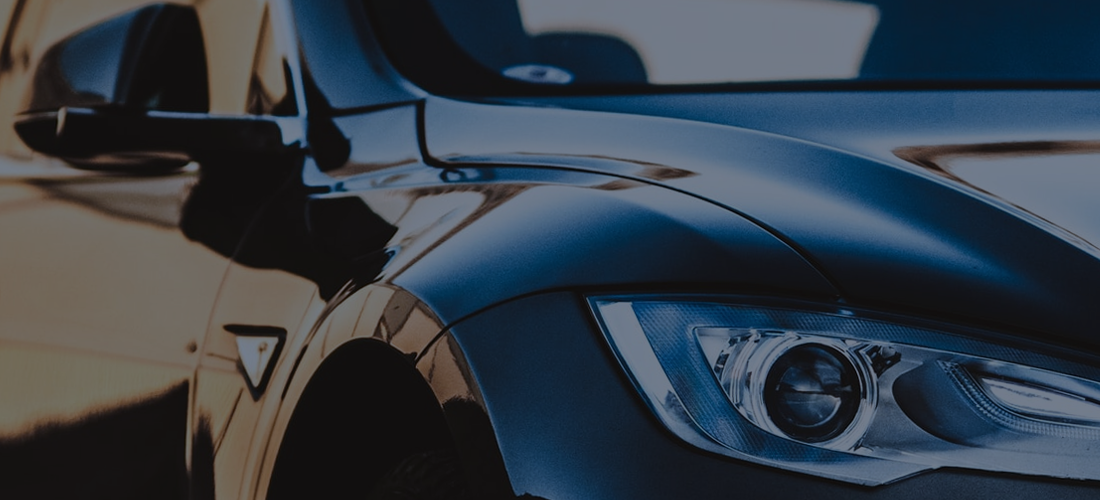
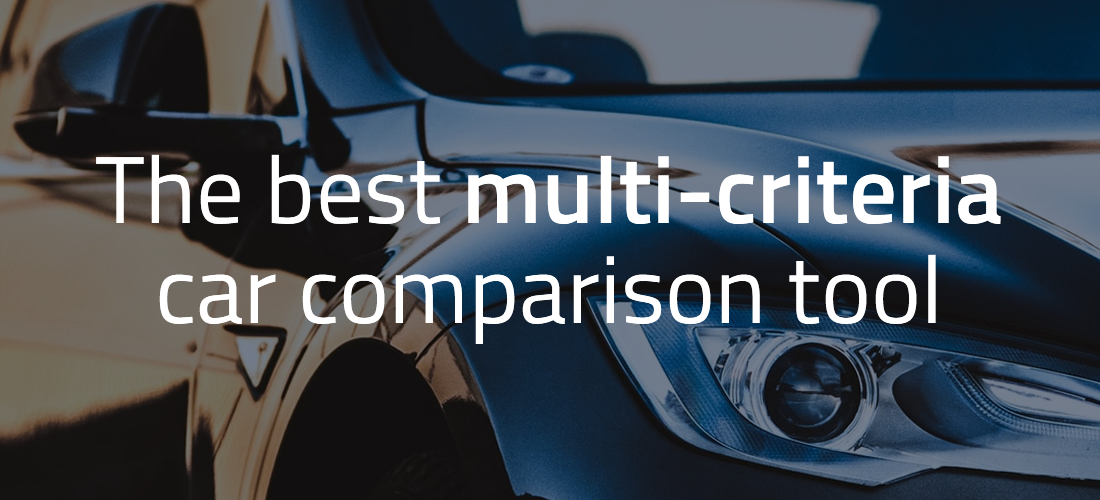
new pictures and design things
new pictures and design things

diff --git a/autofy_styles.css b/autofy_styles.css
@@ -387,29 +387,52 @@ p{
 
 /* C O M P A R E*/
 
+.carboxesCompare{
+  display: inline-block;
+  width: 100%;
+  border:none;
+  padding-top: 30px;
+    margin-right: 0px;
+    margin-left: auto;
+}
+.carboxCompare{
+  width:505px;
+  height:400px;
+  display: inline-block;
+  background-color:rgb(206, 213, 222);
+  border-radius: 25px;
+  
+  margin-left:30px;
+  justify-self: right;
+  margin-bottom:50px;
+}
 
 .choose{
-  background-color:"#8a8a8a";
-  border: none;
+  background-color:#1a2028;
   border-radius: 25px;
   color: white;
   width: 130px;
   height: 30px;
   margin-top: 10px;
+  margin-right: 0px;
   outline: none;
 }
 .CompareButton{
   background-color:#0071bc;
   border: none;
-  border-radius: 25px;
+  border-radius: 20px;
   color: white;
-  width: 130px;
-  height: 30px;
+  width: 150px;
+  height: 40px;
   margin-top: 10px;
   outline: none;
-  margin-left:43%;
+  margin-left:44%;
   margin-bottom:20px;
+  font-size: 16px;
 }
+
+
+
 
 /* C O M P A R E  R E S U L T */
 .carboxesResult{
@@ -491,20 +514,19 @@ p{
 }
 .carboxesHistory{
   display: inline-block;
-  width: 70%;
+  width: 100%;
   border:none;
   padding-top: 30px;
-    margin-right: 0px;
-    margin-left: auto;
 }
 .carboxHistory{
-  width:900px;
+  width:1040px;
   height:400px;
   display: inline-block;
   background-color:rgb(206, 213, 222);
   border-radius: 25px;
   justify-self: right;
-  margin-left: 11%;
+  margin-left: 30px;
+
 }
 .carboxesHistoryInside{
   height: 400px;

diff --git a/autofyFunctions.js b/autofyFunctions.js
@@ -55,7 +55,7 @@ document.getElementById('choose1').style.backgroundColor = "#8a8a8a";
 function chooseButton1(_this) {
   if(document.getElementById('choose2').style.backgroundColor = "#0071bc"){
   _this.style.backgroundColor = "#0071bc";
-  document.getElementById('choose2').style.backgroundColor = "#8a8a8a";
+  document.getElementById('choose2').style.backgroundColor = "#1a2028";
   }else{
     _this.style.backgroundColor = "#0071bc";
   }
@@ -63,7 +63,7 @@ function chooseButton1(_this) {
 function chooseButton2(_this) {
   if(document.getElementById('choose1').style.backgroundColor = "#0071bc"){
   _this.style.backgroundColor = "#0071bc";
-  document.getElementById('choose1').style.backgroundColor = "#8a8a8a";
+  document.getElementById('choose1').style.backgroundColor = "#1a2028";
   }else{
     _this.style.backgroundColor = "#0071bc";
   }

diff --git a/autofy.html b/autofy.html
@@ -32,9 +32,7 @@
             <div class="content">
                 <div class="heroContainer">
                     <img src="images/hero.png" class="heroHome" />
-                    <div class="centered">
-                        The best <strong>multi-criteria</strong><br /> car comparison tool
-                    </div>
+                    
                 </div>
                 <div class="whatIs">
                       <div class="whatIsText">

diff --git a/compare.php b/compare.php
@@ -44,71 +44,17 @@
         <div class="container" id="container">
                 <div class="content" id="Colorbg">
                     <div class="hero">
-                        <img src="images/hero2.png" class="heroFind"/>
-                    <div class="centeredFind">Our <strong>comparison tool</strong> will help to<br /> choose car that suits you best</div>
-                    </div>
-                    <div class="filter" id="Colorbg2">
-                            <p>Brand</p>
-                            <select class="selectBox">
-                                    <option disabled selected value="">Choose your option</option>
-                                    <option value="Audi">Audi</option>
-                                    <option value="Volkswagen">Volkswagen</option>
-                                    <option value="Opel">Opel</option>
-                                    <option value="BMW">BMW</option>
-                            </select>
-                            <p>Year</p>
-                            <select class="selectBox">
-                                    <option disabled selected value="">Choose your option</option>
-                                    <option value="2019">2019</option>
-                                    <option value="2018">2018</option>
-                            </select>
-                            <p>Body Style</p>
-                            <select class="selectBox">
-                                    <option disabled selected value="">Choose your option</option>
-                                    <option value="Cabriolet">Cabriolet</option>
-                                    <option value="Coupe">Coupe</option>
-                                    <option value="EstateCar">Estate Car</option>
-                                    <option value="SUV">SUV</option>
-                                    <option value="Saloon">Saloon</option>
-                                    <option value="Van">Van</option>
-                                    <option value="SmallCar">Small Car</option>
-                            </select>
-                            <p>Fuel Type</p>
-                            <select class="selectBox">
-                                    <option disabled selected value="">Choose your option</option>
-                                    <option value="Petrol">Petrol</option>
-                                    <option value="Diesel">Diesel</option>
-                                    <option value="LPG">LPG</option>
-                                    <option value="Hybrid">Hybrid</option>
-                                    <option value="Electric">Electric</option>
-                            </select>
-                            <p>Transmission</p>
-                            <select class="selectBox">
-                                    <option disabled selected value="">Choose your option</option>
-                                    <option value="Manual">Manual gearbox</option>
-                                    <option value="Automatic">Automatic transmission</option>
-                            </select>
-                            <p>Color</p>
-                            <select class="selectBox">
-                                    <option disabled selected value="">Choose your option</option>
-                                    <option value="Red">Red</option>
-                                    <option value="Yellow">Yellow</option>
-                                    <option value="Blue">Blue</option>
-                                    <option value="Black">Black</option>
-                            </select>
-                            <button  type="button" class="ApplyButton">Apply</button>
-
-
-
-
+                        <img src="images/hero3.png" class="heroFind"/>
+                    
+                    
 
                             
                           
                     </div>
-                    <table class="carboxes" id="Colorbg3">
+                    <table class="carboxesCompare" id="Colorbg3">
                         <tr>
-                            <td width="40%">
-                         <div class="carbox">
+                            <td width="30%">
+                         <div class="carboxCompare">
                             <div class="carPicture" id="carPicture">
 											<?php			
 											$sql = "SELECT iamge from cars where brand = 'Audi'";
@@ -266,8 +212,8 @@
 
 
 <!--NEW CAR COLUMN-->
-                        <td width="40%">
-                         <div class="carbox">
+                        <td width="30%">
+                         <div class="carboxCompare">
                             <div class="carPicture" id="carPicture">
 											<?php			
 											$sql = "SELECT iamge from cars where brand = 'Audi'";
@@ -422,6 +368,11 @@
                         </td>
 
 </tr>
+
+
+
+
+
 
 
 

diff --git a/compare-menu.php b/compare-menu.php
@@ -44,8 +44,8 @@
         <div class="container" id="container">
                 <div class="content">
                     <div class="hero">
-                        <img src="images/hero2.png" class="heroFind"/>
-                    <div class="centeredFind">Our <strong>comparison tool</strong> will help to<br /> choose car that suits you best</div>
+                        <img src="images/hero3.png" class="heroFind"/>
+                    
                     </div> 
                     
                     <div class="compareMenu">

diff --git a/history.php b/history.php
@@ -44,8 +44,8 @@
         <div class="containerHistory">
                 <div class="contentHistory">
                     <div class="hero">
-                        <img src="images/hero2.png" class="heroFind"/>
-                    <div class="centeredFind">Our <strong>comparison tool</strong> will help to<br /> choose car that suits you best</div>
+                        <img src="images/hero4.png" class="heroFind"/>
+                    
                     </div>                   
  
                 <table class="carboxesHistory">

diff --git a/compare-result.php b/compare-result.php
@@ -44,8 +44,8 @@
         <div class="containerResult">
                 <div class="contentResult">
                     <div class="hero">
-                        <img src="images/hero2.png" class="heroFind"/>
-                    <div class="centeredFind">Our <strong>comparison tool</strong> will help to<br /> choose car that suits you best</div>
+                        <img src="images/hero3.png" class="heroFind"/>
+                    
                     </div>                   
  
                 <table class="carboxesResult">

diff --git a/find.php b/find.php
@@ -45,7 +45,6 @@
                 <div class="content" id="Colorbg">
                     <div class="hero">
                         <img src="images/hero2.png" class="heroFind"/>
-                    <div class="centeredFind">A place where you can find your dream car</div>
                     </div>
                     <div class="filter" id="Colorbg2">
                             <p>Brand</p>
